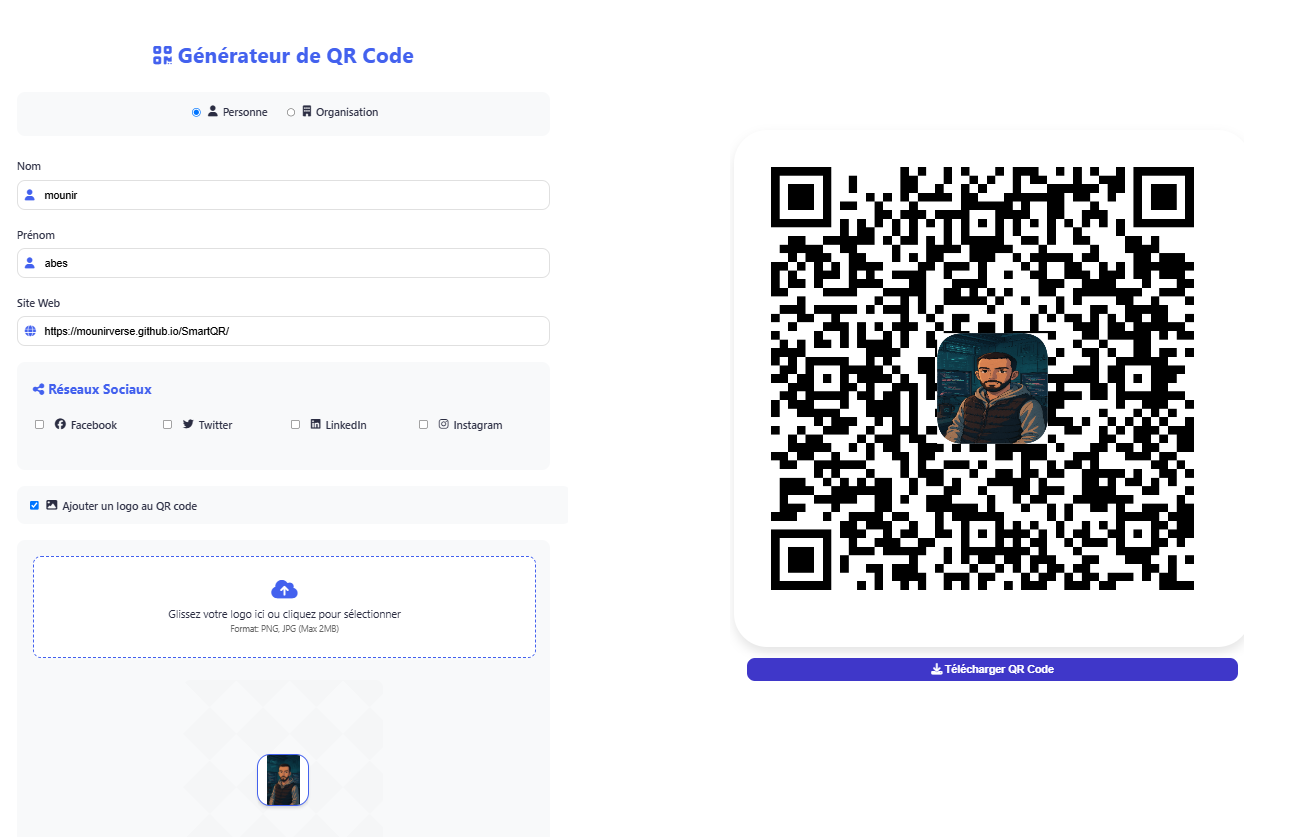
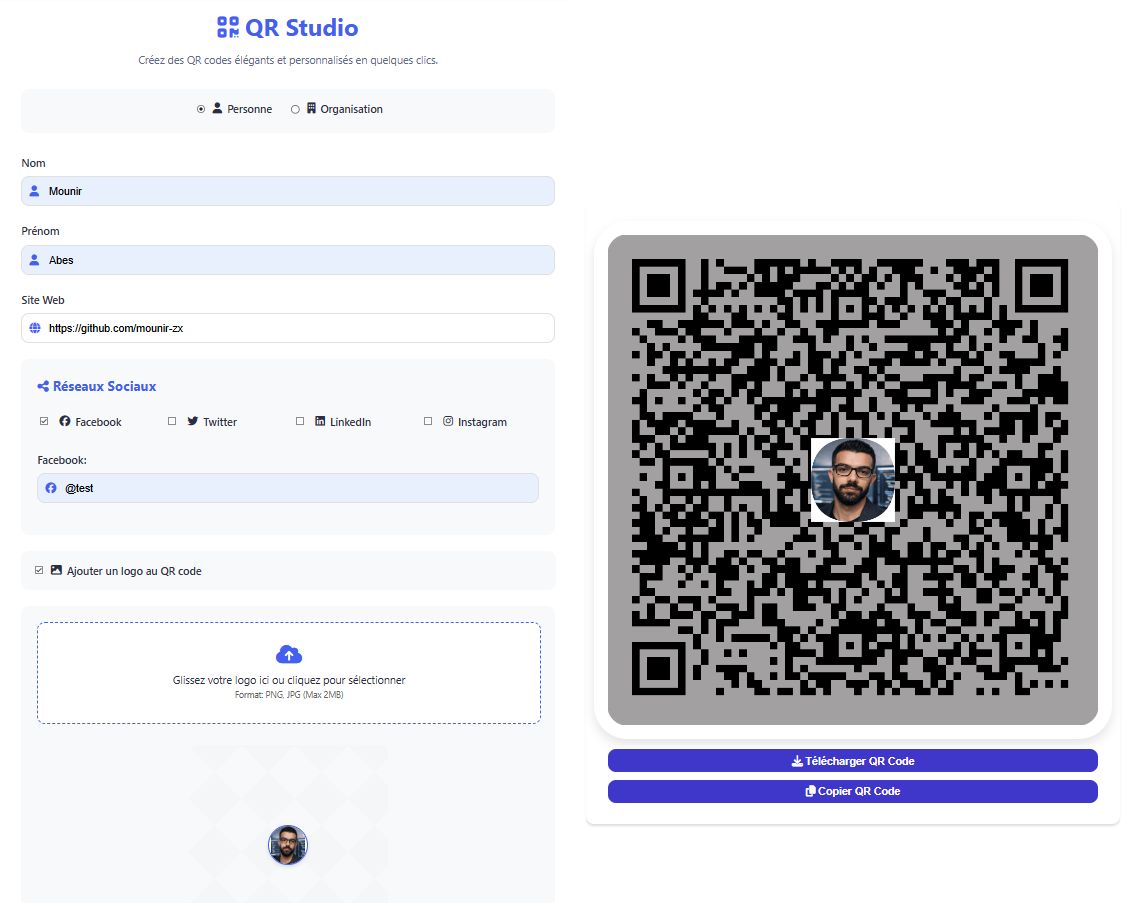
Updated UI

diff --git a/index.html b/index.html
@@ -3,7 +3,7 @@
 <head>
     <meta charset="UTF-8">
     <meta name="viewport" content="width=device-width, initial-scale=1.0">
-    <title>Générateur de QR Code</title>
+    <title>QR Studio | Générateur de QR Code</title>
     <script src="https://cdnjs.cloudflare.com/ajax/libs/qrious/4.0.2/qrious.min.js"></script>
     <link rel="stylesheet" href="https://cdnjs.cloudflare.com/ajax/libs/font-awesome/6.5.1/css/all.min.css">
     <style>
@@ -29,11 +29,13 @@
 
         body {
             font-family: 'Segoe UI', system-ui, sans-serif;
-            background-color: var(--bg-color);
+            background: radial-gradient(circle at top left, rgba(67, 97, 238, 0.15), transparent 30%),
+                        linear-gradient(135deg, #f8f9fa 0%, #e9efff 45%, #f5f7ff 100%);
             color: var(--text-color);
             line-height: 1.6;
             margin: 0;
             padding: 20px;
+            min-height: 100vh;
         }
 
         .form-container {
@@ -49,8 +51,17 @@
         h2 {
             color: var(--primary-color);
             text-align: center;
-            margin-bottom: 2rem;
-            font-size: 2rem;
+            margin-bottom: 0.5rem;
+            font-size: 2.25rem;
+        }
+
+        .subtitle {
+            text-align: center;
+            color: #5f698f;
+            margin: 0 auto 2rem;
+            max-width: 640px;
+            font-size: 1rem;
+            line-height: 1.6;
         }
 
         .form-group {
@@ -356,6 +367,7 @@
         input[type="range"] {
             width: 100%;
             height: 6px;
+            appearance: none;
             -webkit-appearance: none;
             background: #e0e0e0;
             border-radius: 3px;
@@ -363,6 +375,7 @@
         }
 
         input[type="range"]::-webkit-slider-thumb {
+            appearance: none;
             -webkit-appearance: none;
             width: 18px;
             height: 18px;
@@ -543,6 +556,7 @@
     </div>
     <div class="form-container">
         <h2 data-translate="title"><i class="fas fa-qrcode"></i> Générateur de QR Code</h2>
+        <p class="subtitle" data-translate="subtitle">Créez des QR codes élégants et personnalisés en quelques clics.</p>
         <form id="qrForm">
             <div class="type-selector">
                 <label>
@@ -680,9 +694,18 @@
                         <input type="color" id="qrColor" value="#000000">
                     </label>
                     <label>
+                        <span data-translate="bgColor">Couleur de fond</span>
+                        <input type="color" id="bgColor" value="#ffffff">
+                    </label>
+                    <label>
+                        <span data-translate="qrSizeLabel">Taille du QR</span>
+                        <input type="range" id="qrSize" min="256" max="1024" step="128" value="1024">
+                        <span id="qrSizeValue">1024px</span>
+                    </label>
+                    <label>
                         <span data-translate="logoSize">Taille du logo</span>
                         <input type="range" id="logoSize" min="5" max="40" value="25">
-                        <span id="logoSizeValue">25%</span>
+                        <span id="logoSizeValue">25% (260px)</span>
                     </label>
                     <label>
                         <span data-translate="logoShape">Forme du logo</span>
@@ -971,13 +994,16 @@
                 const logoFile = document.getElementById('logo').files[0];
 
                 // Generate QR code
+                const qrSizeValue = parseInt(document.getElementById('qrSize').value, 10) || 1024;
+                const bgColor = document.getElementById('bgColor').value;
+
                 const qr = new QRious({
                     element: canvas,
                     value: qrText,
-                    size: 1024,
+                    size: qrSizeValue,
                     level: 'H',
                     padding: 50,
-                    background: '#ffffff',
+                    background: bgColor,
                     foreground: qrColor
                 });
 
@@ -1037,6 +1063,9 @@
                 downloadBtn.innerHTML = '<i class="fas fa-download"></i> Télécharger QR Code';
                 downloadBtn.className = 'download-btn';
                 downloadBtn.style.marginTop = '1rem';
+                downloadBtn.setAttribute('data-translate', 'download');
+                downloadBtn.dataset.translateIcon = 'fas fa-download';
+                downloadBtn.type = 'button';
                 downloadBtn.onclick = function() {
                     const url = canvas.toDataURL('image/png');
                     const a = document.createElement('a');
@@ -1046,6 +1075,31 @@
                 };
                 qrcodeDiv.appendChild(downloadBtn);
 
+                const copyBtn = document.createElement('button');
+                copyBtn.innerHTML = '<i class="fas fa-copy"></i> Copier QR Code';
+                copyBtn.className = 'download-btn';
+                copyBtn.style.marginTop = '0.75rem';
+                copyBtn.type = 'button';
+                copyBtn.setAttribute('data-translate', 'copy');
+                copyBtn.dataset.translateIcon = 'fas fa-copy';
+                copyBtn.onclick = async function() {
+                    if (!navigator.clipboard) {
+                        alert('Votre navigateur ne prend pas en charge le presse-papiers.');
+                        return;
+                    }
+
+                    canvas.toBlob(async function(blob) {
+                        try {
+                            await navigator.clipboard.write([new ClipboardItem({ 'image/png': blob })]);
+                            alert('QR code copié dans le presse-papiers.');
+                        } catch (err) {
+                            console.error(err);
+                            alert('Impossible de copier le QR code.');
+                        }
+                    });
+                };
+                qrcodeDiv.appendChild(copyBtn);
+                updateLanguage(document.getElementById('langSelect').value);
             } catch (error) {
                 console.error(error);
                 alert("Erreur lors de la génération du QR code.");
@@ -1055,7 +1109,7 @@
         // Ajouter les traductions des réseaux sociaux
         const translations = {
             fr: {
-                title: "Générateur de QR Code",
+                title: "QR Studio",
                 person: "Personne",
                 organization: "Organisation",
                 name: "Nom",
@@ -1070,6 +1124,10 @@
                 qrColor: "Couleur du QR",
                 logoSize: "Taille du logo",
                 logoShape: "Forme du logo",
+                qrSizeLabel: "Taille du QR",
+                bgColor: "Couleur de fond",
+                copy: "Copier QR Code",
+                subtitle: "Créez des QR codes élégants et personnalisés en quelques clics.",
                 generate: "Générer QR Code",
                 download: "Télécharger QR Code",
                 error: "Erreur lors de la génération du QR code",
@@ -1081,7 +1139,7 @@
                 instagram: "Instagram"
             },
             en: {
-                title: "QR Code Generator",
+                title: "QR Studio",
                 person: "Person",
                 organization: "Organization",
                 name: "Name",
@@ -1096,6 +1154,10 @@
                 qrColor: "QR Color",
                 logoSize: "Logo Size",
                 logoShape: "Logo Shape",
+                qrSizeLabel: "QR Size",
+                bgColor: "Background Color",
+                copy: "Copy QR Code",
+                subtitle: "Create elegant, custom QR codes in just a few clicks.",
                 generate: "Generate QR Code",
                 download: "Download QR Code",
                 error: "Error generating QR code",
@@ -1107,7 +1169,7 @@
                 instagram: "Instagram"
             },
             ar: {
-                title: "مولد رمز QR",
+                title: "QR ستوديو",
                 person: "شخص",
                 organization: "منظمة",
                 name: "اللقب",
@@ -1122,6 +1184,10 @@
                 qrColor: "لون QR",
                 logoSize: "حجم الشعار",
                 logoShape: "شكل الشعار",
+                qrSizeLabel: "حجم QR",
+                bgColor: "لون الخلفية",
+                copy: "نسخ رمز QR",
+                subtitle: "أنشئ رموز QR أنيقة ومخصصة بنقرة واحدة.",
                 generate: "توليد رمز QR",
                 download: "تحميل رمز QR",
                 error: "خطأ في توليد رمز QR",
@@ -1155,7 +1221,8 @@
                 if (element.tagName === 'INPUT' && element.type === 'text') {
                     element.placeholder = t[key];
                 } else if (element.tagName === 'BUTTON') {
-                    element.innerHTML = `<i class="fas fa-qrcode"></i> ${t[key]}`;
+                    const iconClass = element.dataset.translateIcon || 'fas fa-qrcode';
+                    element.innerHTML = `<i class="${iconClass}"></i> ${t[key]}`;
                 } else if (element.tagName === 'H2') {
                     element.innerHTML = `<i class="fas fa-qrcode"></i> ${t[key]}`;
                 } else {

diff --git a/README.md b/README.md
@@ -1,4 +1,4 @@
-# SmartQR 🚀
+# QR-Studio 🚀
 
 [![License: MIT](https://img.shields.io/badge/License-MIT-blue.svg)](https://opensource.org/licenses/MIT)
 ![HTML5](https://img.shields.io/badge/HTML5-E34F26?style=flat&logo=html5&logoColor=white)
@@ -7,13 +7,13 @@
 
 ---
 
-**A smart, customizable QR code generator with logo embedding, social profiles, and multilingual UI.**
+**A modern QR code studio with logo support, social link generation, theme switching, and improved customization.**
 
-👉 **Live Demo:** [mounirverse.github.io/SmartQR](https://mounirverse.github.io/SmartQR/)
+👉 **Live Demo:** [mounirverse.github.io/QR-Studio](https://mounirverse.github.io/QR-Studio/)
 
 ---
 
-![SmartQR Interface](assets/screenshot.png) 
+![QR Studio Interface](assets/screenshot.png) 
 ---
 
 ## ✨ Features
@@ -23,6 +23,7 @@
 | 🎨 **Custom QR**        | Change colors, add logos, and adjust corner radius for personalized QR codes. |
 | 🌐 **Social Links**     | Direct QR links to Facebook, Twitter, LinkedIn, and Instagram profiles.      |
 | 🌙 **Dark Mode**        | Toggle between light and dark themes for a customized look.                   |
+| 🧩 **More Options**     | Customize QR background, size, logo shape, and copy directly to clipboard.    |
 | 🗣 **3 Languages**      | Supports English, French, and Arabic.                                       |
 | 📥 **Instant Download** | Save your QR code as a high-resolution PNG (up to 1024x1024).                |
 | 📱 **Mobile-Friendly**  | Fully responsive and works flawlessly on all devices.                        |
@@ -33,15 +34,16 @@
 
 ### Use Online
 
-1. **Visit** [mounirverse.github.io/SmartQR](https://mounirverse.github.io/SmartQR/) to start generating your QR codes instantly!
+1. **Visit** [mounirverse.github.io/QR-Studio](https://mounirverse.github.io/QR-Studio/) to start generating your QR codes instantly!
 
 ### Run Locally
 
 1. **Clone the repository**:
    ```bash
-   git clone https://github.com/mounirverse/SmartQR.git
-   cd SmartQR
-Open the app: Simply open index.html in your preferred browser to run the app locally.
+   git clone https://github.com/mounirverse/QR-Studio.git
+   cd QR-Studio
+   open index.html in your preferred browser to run the app locally.
+   ```
 
 🛠 How It Works
 User Flow:
@@ -66,7 +68,7 @@ Hosting: GitHub Pages for live deployment.
 
 
 🌍 Live Demo
-Try it now: [SmartQR Demo](https://mounirverse.github.io/SmartQR/)
+Try it now: [QR Studio Demo](https://mounirverse.github.io/QR-Studio/)
 
 📜 License
 Open-source under the MIT License. Feel free to use, modify, and distribute this project, just provide attribution.
